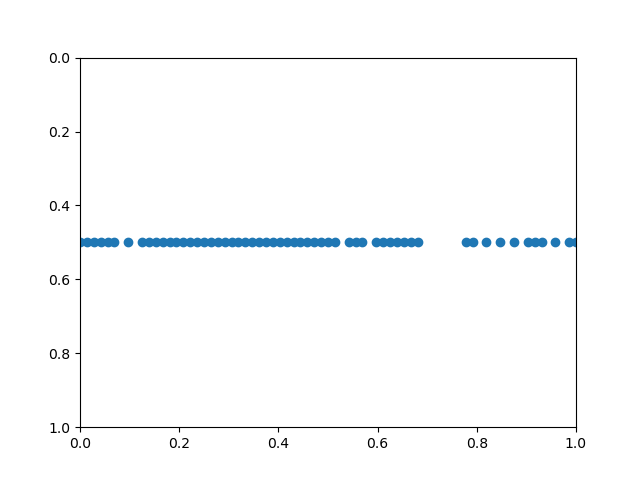
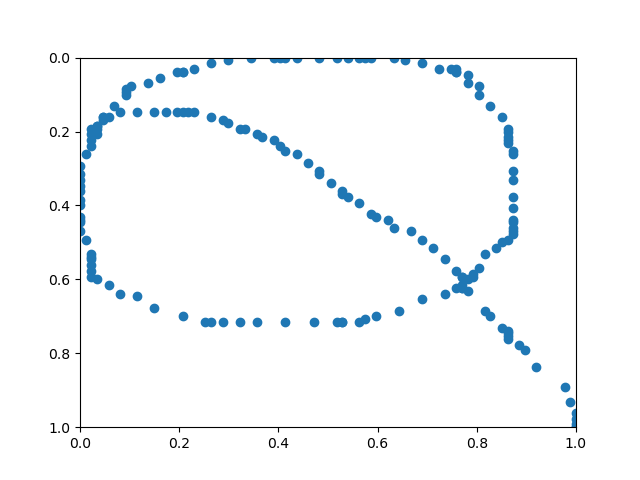
Added scaling functions

diff --git a/main2.py b/main2.py
@@ -11,23 +11,14 @@ import numpy as np
 import random
 import matplotlib.pyplot as plt
 model=keras.models.load_model("DL-part/Model/model_UJI2_newest.h5")
-
+from scalefn import scale_up,scale_down,scale_up_prime
 app = Flask(__name__)
 
 #=============================================================================
 #MYSQL CONFIGURATION
 app.config['SECRET_KEY'] = 'AjJ0lXaX5K9tai8QsUhwwQ'
 
-def scale_down(x,fc):
-    if(fc==True):
-        skip=math.ceil(len(x)/(len(x)-120))
-    else:
-        skip=len(x)//(len(x)-120)
-    templst=[]
-    for i in range(len(x)):
-        if(i%skip!=0):
-            templst.append(x[i])
-    return templst
+
 #HOMEPAGE
 
 @app.route('/',methods=['GET','POST'])
@@ -41,14 +32,19 @@ def home():
                 lst.append((float(c['x']),float(c['y'])))
         
         #print(lst)
-
-        if(len(lst)>240):
-            lst=scale_down(lst,True)
-                
-        if(len(lst)>120):
-            lst=scale_down(lst,False)
+        x=lst
+        if(len(x)>240):
+            x=scale_down(x,True)
+        if(len(x)>120):
+            x=scale_down(x,False)
+        if(len(x)>60 and len(x)<120):
+            x=scale_up_prime(x)
+        if(len(x)<=60):
+            x=scale_up(x)
+        if(len(x)<60):
+            x=scale_up(x)
         
-
+        lst=x
         StrokeSet=np.array(lst)
         
         #print(StrokeSet)
@@ -114,20 +110,15 @@ def plot():
         # print(points)
         x=[]
         y=[]
-        dictionary={}
-        for c in points:
-            if(c[0] in dictionary):
-                dictionary[c[0]]=min(dictionary[c[0]],c[1])
-            else:
-                dictionary[c[0]]=c[1]
+        
 
-        for i in sorted(dictionary.keys()):
-            x.append(i-minx)
-            y.append(dictionary[i]-miny)
+        for i in points:
+            x.append((i[0]-minx)/(maxx-minx))
+            y.append((i[1]-miny)/(maxy-miny))
         #print(x,y)
 
-        plt.plot(x,y,'-ro')
-        plt.axis([-10,maxx-minx+10,maxy-miny+10,-10])
+        plt.scatter(x,y)
+        plt.axis([0,1,1,0])
         plt.savefig('plot.png')
         plt.close()
 

diff --git a/DL-part/parse_uji.py b/DL-part/parse_uji.py
@@ -6,6 +6,7 @@ Created on Mon Nov 16 15:35:58 2020
 """
 import numpy as np
 import math
+import matplotlib.pyplot as plt
 
 file=open(r"Data/UJI/ujipenchars2.txt",mode='r',encoding='utf-8')
 
@@ -23,20 +24,20 @@ def scale_up(x):
 	templist=[]
 	for i in range(len(x)-1):
 		templist.append(x[i])
-		templist.append(tuple((x[i][0]+x[i+1][0])/2,(x[i][1]+x[i+1][1])/2))
+		templist.append(((x[i][0]+x[i+1][0])/2,(x[i][1]+x[i+1][1])/2))
 	templist.append(x[len(x)-1])
 	return templist
 def scale_up_prime(x):
-	skip=math.ceil(len(x)/(120-len(x)))
-	crnt=skip
-	templst=[]
+    skip=math.ceil(len(x)/(120-len(x)))
+    crnt=skip
+    templst=[]
     for i in range(len(x)-1):
         templst.append(x[i])
         if(i==crnt):
-        	templist.append(tuple((x[i][0]+x[i+1][0])/2,(x[i][1]+x[i+1][1])/2))
+        	templst.append(((x[i][0]+x[i+1][0])/2,(x[i][1]+x[i+1][1])/2))
         	crnt+=skip
 
-    templist.append(x[len(x)-1]) 
+    templst.append(x[len(x)-1]) 
     return templst
 
 nl=0
@@ -64,7 +65,7 @@ for temp in file:
                 
             if(len(x)>120):
                 x=scale_down(x,False)
-            if(len(x))>60:
+            if(len(x)>60 and len(x)<120):
             	x=scale_up_prime(x)
             if(len(x)<=60):
             	x=scale_up(x)
@@ -90,5 +91,3 @@ for row in arr:
     size.append(len(row[0]))
     
 size=sorted(list(set(size)),reverse=True)
-
-np.save()

diff --git a/scalefn.py b/scalefn.py
@@ -1,0 +1,38 @@
+# -- coding: utf-8 --
+"""
+Created on Mon Nov 16 15:35:58 2020
+
+@author: Anant
+"""
+import math
+
+
+def scale_down(x,fc):
+    if(fc==True):
+        skip=math.ceil(len(x)/(len(x)-120))
+    else:
+        skip=len(x)//(len(x)-120)
+    templst=[]
+    for i in range(len(x)):
+        if(i%skip!=0):
+            templst.append(x[i])
+    return templst
+def scale_up(x):
+	templist=[]
+	for i in range(len(x)-1):
+		templist.append(x[i])
+		templist.append(((x[i][0]+x[i+1][0])/2,(x[i][1]+x[i+1][1])/2))
+	templist.append(x[len(x)-1])
+	return templist
+def scale_up_prime(x):
+    skip=math.ceil(len(x)/(120-len(x)))
+    crnt=skip
+    templst=[]
+    for i in range(len(x)-1):
+        templst.append(x[i])
+        if(i==crnt):
+        	templst.append(((x[i][0]+x[i+1][0])/2,(x[i][1]+x[i+1][1])/2))
+        	crnt+=skip
+
+    templst.append(x[len(x)-1]) 
+    return templst
